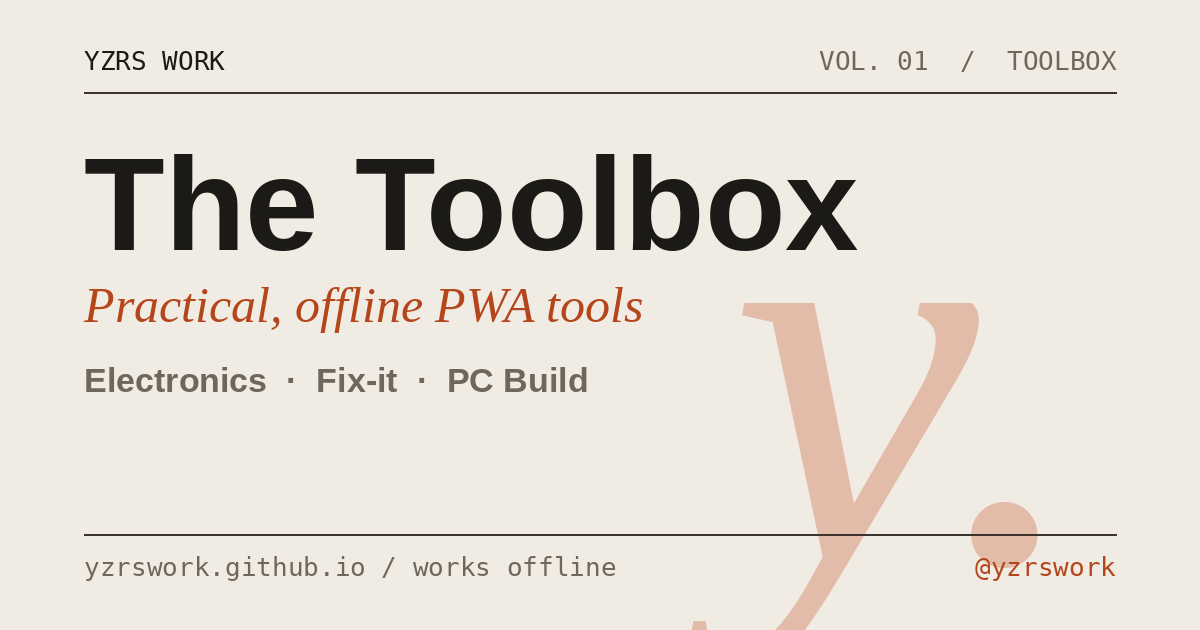
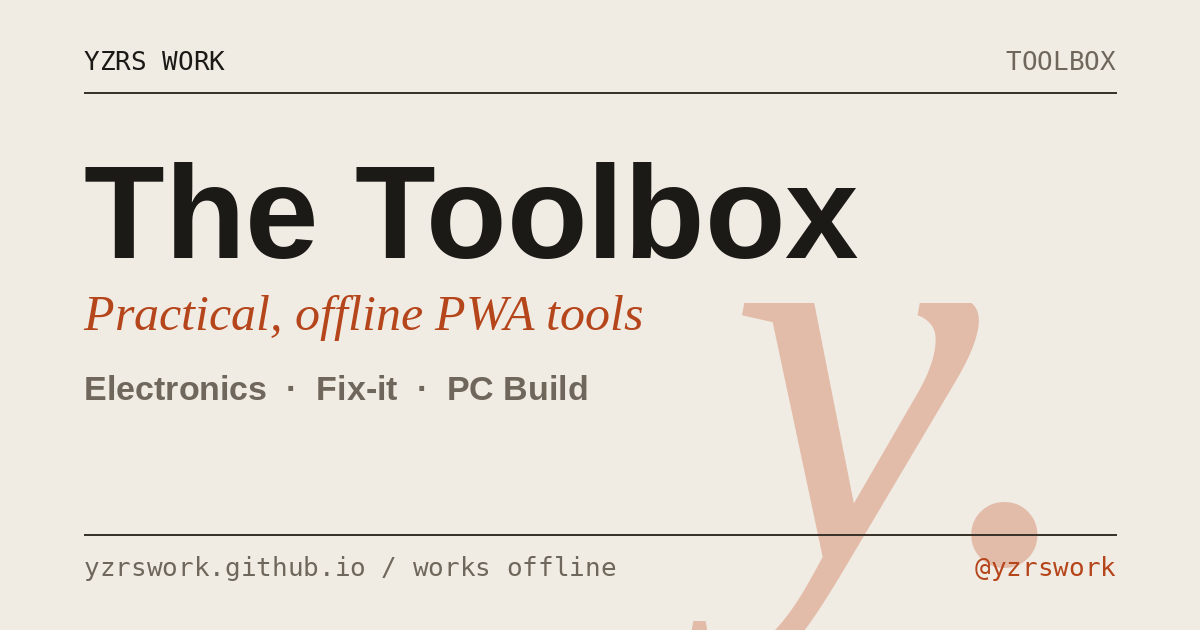
Add per-tool OG share cards and an install button on the Toolbox hub

diff --git a/tools/index.html b/tools/index.html
@@ -89,7 +89,10 @@
   <main class="page">
     <div class="topbar">
       <a class="home" href="../index.html"><span class="dot">●</span> や印工務店</a>
-      <button class="share" id="share">共有</button>
+      <span style="display:flex;gap:8px;">
+        <button class="share" id="install" style="display:none;">インストール</button>
+        <button class="share" id="share">共有</button>
+      </span>
     </div>
 
     <header class="hero">
@@ -162,6 +165,23 @@
       const b = document.getElementById('share'); const t = b.textContent; b.textContent = 'コピー済'; setTimeout(() => b.textContent = t, 1500);
     } catch (e) { /* キャンセル等は無視 */ }
   });
+
+  // インストール（beforeinstallprompt 対応ブラウザでボタンを出す）
+  let deferredPrompt = null;
+  const installBtn = document.getElementById('install');
+  window.addEventListener('beforeinstallprompt', (e) => {
+    e.preventDefault();
+    deferredPrompt = e;
+    installBtn.style.display = '';
+  });
+  installBtn.addEventListener('click', async () => {
+    if (!deferredPrompt) return;
+    deferredPrompt.prompt();
+    try { await deferredPrompt.userChoice; } catch (e) {}
+    deferredPrompt = null;
+    installBtn.style.display = 'none';
+  });
+  window.addEventListener('appinstalled', () => { installBtn.style.display = 'none'; });
 
   if ('serviceWorker' in navigator) {
     window.addEventListener('load', () => {

diff --git a/bench/index.html b/bench/index.html
@@ -16,11 +16,11 @@
 <meta property="og:title" content="工房の電卓 — Maker's Bench" />
 <meta property="og:description" content="電子工作のオフライン計算ツール集。オームの法則・LED抵抗・カラーコード・555・電池駆動時間。" />
 <meta property="og:url" content="https://yzrswork.github.io/yzrswork_ai-skill-recipe/bench/" />
-<meta property="og:image" content="https://yzrswork.github.io/yzrswork_ai-skill-recipe/icons/og-card.png" />
+<meta property="og:image" content="https://yzrswork.github.io/yzrswork_ai-skill-recipe/icons/og-bench.png" />
 <meta name="twitter:card" content="summary_large_image" />
 <meta name="twitter:title" content="工房の電卓 — Maker's Bench" />
 <meta name="twitter:description" content="電子工作のオフライン計算ツール集。オームの法則・LED抵抗・カラーコード・555・電池駆動時間。" />
-<meta name="twitter:image" content="https://yzrswork.github.io/yzrswork_ai-skill-recipe/icons/og-card.png" />
+<meta name="twitter:image" content="https://yzrswork.github.io/yzrswork_ai-skill-recipe/icons/og-bench.png" />
 <link rel="preconnect" href="https://fonts.googleapis.com" />
 <link rel="preconnect" href="https://fonts.gstatic.com" crossorigin />
 <link href="https://fonts.googleapis.com/css2?family=Noto+Sans+JP:wght@400;500;700&family=DM+Mono:wght@400;500&family=EB+Garamond:ital,wght@0,400;0,500;1,400&display=swap" rel="stylesheet" />

diff --git a/fixit/index.html b/fixit/index.html
@@ -16,11 +16,11 @@
 <meta property="og:title" content="直し方ナビ — Fix-it Navigator" />
 <meta property="og:description" content="よくあるトラブルを質問に答えるだけで切り分ける診断ナビ。Yahoo!メール・Windows共有・自作PCビープ・Obsidian同期。" />
 <meta property="og:url" content="https://yzrswork.github.io/yzrswork_ai-skill-recipe/fixit/" />
-<meta property="og:image" content="https://yzrswork.github.io/yzrswork_ai-skill-recipe/icons/og-card.png" />
+<meta property="og:image" content="https://yzrswork.github.io/yzrswork_ai-skill-recipe/icons/og-fixit.png" />
 <meta name="twitter:card" content="summary_large_image" />
 <meta name="twitter:title" content="直し方ナビ — Fix-it Navigator" />
 <meta name="twitter:description" content="質問に答えるだけでトラブルを切り分ける診断ナビ。Yahoo!メール・Windows共有・自作PCビープ・Obsidian同期。" />
-<meta name="twitter:image" content="https://yzrswork.github.io/yzrswork_ai-skill-recipe/icons/og-card.png" />
+<meta name="twitter:image" content="https://yzrswork.github.io/yzrswork_ai-skill-recipe/icons/og-fixit.png" />
 <meta name="description" content="iPhoneのYahoo!メールが繋がらない、Windows11 24H2で共有フォルダが見えない。よくあるトラブルを質問に答えるだけで切り分ける、オフライン対応の診断ナビ。" />
 <link rel="preconnect" href="https://fonts.googleapis.com" />
 <link rel="preconnect" href="https://fonts.gstatic.com" crossorigin />

diff --git a/hdd/index.html b/hdd/index.html
@@ -16,11 +16,11 @@
 <meta property="og:title" content="HDD選びナビ — WD Color & CMR/SMR" />
 <meta property="og:description" content="WDのHDDを用途から色で選び、型番末尾でCMR/SMRを判定。RAID/NASにSMRを避けるための早見。" />
 <meta property="og:url" content="https://yzrswork.github.io/yzrswork_ai-skill-recipe/hdd/" />
-<meta property="og:image" content="https://yzrswork.github.io/yzrswork_ai-skill-recipe/icons/og-card.png" />
+<meta property="og:image" content="https://yzrswork.github.io/yzrswork_ai-skill-recipe/icons/og-hdd.png" />
 <meta name="twitter:card" content="summary_large_image" />
 <meta name="twitter:title" content="HDD選びナビ — WD Color & CMR/SMR" />
 <meta name="twitter:description" content="WDのHDDを用途から色で選び、型番末尾でCMR/SMRを判定。RAID/NASにSMRを避ける早見。" />
-<meta name="twitter:image" content="https://yzrswork.github.io/yzrswork_ai-skill-recipe/icons/og-card.png" />
+<meta name="twitter:image" content="https://yzrswork.github.io/yzrswork_ai-skill-recipe/icons/og-hdd.png" />
 <meta name="description" content="Western DigitalのHDDを用途から色で選び、CMR/SMRを型番末尾で確認する選び方ナビ。RAID/NASにSMRを避けるための早見つき。オフライン対応。" />
 <link rel="preconnect" href="https://fonts.googleapis.com" />
 <link rel="preconnect" href="https://fonts.gstatic.com" crossorigin />

diff --git a/kit/index.html b/kit/index.html
@@ -16,11 +16,11 @@
 <meta property="og:title" content="装備ナビ — Maker's Starter Kit" />
 <meta property="og:description" content="電子工作の工具と部品ストックをステップ別にチェックして、Amazonの買い物リストに集約。調達先ガイドつき。" />
 <meta property="og:url" content="https://yzrswork.github.io/yzrswork_ai-skill-recipe/kit/" />
-<meta property="og:image" content="https://yzrswork.github.io/yzrswork_ai-skill-recipe/icons/og-card.png" />
+<meta property="og:image" content="https://yzrswork.github.io/yzrswork_ai-skill-recipe/icons/og-kit.png" />
 <meta name="twitter:card" content="summary_large_image" />
 <meta name="twitter:title" content="装備ナビ — Maker's Starter Kit" />
 <meta name="twitter:description" content="電子工作の工具・部品をステップ別にチェックして買い物リストに集約。調達先ガイドつき。" />
-<meta name="twitter:image" content="https://yzrswork.github.io/yzrswork_ai-skill-recipe/icons/og-card.png" />
+<meta name="twitter:image" content="https://yzrswork.github.io/yzrswork_ai-skill-recipe/icons/og-kit.png" />
 <meta name="description" content="電子工作、まず何を買えばいい？ 工具と部品ストックをステップ別にチェックして、Amazonの買い物リストに集約。調達先の使い分けガイドつき。オフライン対応。" />
 <link rel="preconnect" href="https://fonts.googleapis.com" />
 <link rel="preconnect" href="https://fonts.gstatic.com" crossorigin />

diff --git a/lab/index.html b/lab/index.html
@@ -16,11 +16,11 @@
 <meta property="og:title" content="e-photoframe ラボ — Modules & Power Planner" />
 <meta property="og:description" content="e-photoframeシリーズのモジュール図鑑と、5V単一電源の配電プランナー。消費電流を積み上げて余裕を確認。" />
 <meta property="og:url" content="https://yzrswork.github.io/yzrswork_ai-skill-recipe/lab/" />
-<meta property="og:image" content="https://yzrswork.github.io/yzrswork_ai-skill-recipe/icons/og-card.png" />
+<meta property="og:image" content="https://yzrswork.github.io/yzrswork_ai-skill-recipe/icons/og-lab.png" />
 <meta name="twitter:card" content="summary_large_image" />
 <meta name="twitter:title" content="e-photoframe ラボ — Modules & Power Planner" />
 <meta name="twitter:description" content="モジュール図鑑と5V配電プランナー。消費電流を積み上げてACアダプタ容量とポート数の余裕を確認。" />
-<meta name="twitter:image" content="https://yzrswork.github.io/yzrswork_ai-skill-recipe/icons/og-card.png" />
+<meta name="twitter:image" content="https://yzrswork.github.io/yzrswork_ai-skill-recipe/icons/og-lab.png" />
 <meta name="description" content="e-photoframeシリーズで使ったモジュールの図鑑と、5V単一電源の配電プランナー。消費電流を積み上げてACアダプタ容量とポート数の余裕を確認。オフライン対応。" />
 <link rel="preconnect" href="https://fonts.googleapis.com" />
 <link rel="preconnect" href="https://fonts.gstatic.com" crossorigin />

diff --git a/mem/index.html b/mem/index.html
@@ -16,11 +16,11 @@
 <meta property="og:title" content="メモリ選びナビ — DDR Spec & Capacity" />
 <meta property="og:description" content="自作PCのメモリを、ソケットからDDR規格を確認し、用途から容量を選び、2枚構成で組むための選び方ナビ。" />
 <meta property="og:url" content="https://yzrswork.github.io/yzrswork_ai-skill-recipe/mem/" />
-<meta property="og:image" content="https://yzrswork.github.io/yzrswork_ai-skill-recipe/icons/og-card.png" />
+<meta property="og:image" content="https://yzrswork.github.io/yzrswork_ai-skill-recipe/icons/og-mem.png" />
 <meta name="twitter:card" content="summary_large_image" />
 <meta name="twitter:title" content="メモリ選びナビ — DDR Spec & Capacity" />
 <meta name="twitter:description" content="ソケットからDDR規格、用途から容量、2枚構成（デュアルチャネル）で。2026年の対応を反映。" />
-<meta name="twitter:image" content="https://yzrswork.github.io/yzrswork_ai-skill-recipe/icons/og-card.png" />
+<meta name="twitter:image" content="https://yzrswork.github.io/yzrswork_ai-skill-recipe/icons/og-mem.png" />
 <meta name="description" content="自作PCのメモリを、ソケットからDDR規格を確認し、用途から容量を選び、2枚構成（デュアルチャネル）で組むための選び方ナビ。オフライン対応。" />
 <link rel="preconnect" href="https://fonts.googleapis.com" />
 <link rel="preconnect" href="https://fonts.gstatic.com" crossorigin />

diff --git a/bench/sw.js b/bench/sw.js
@@ -1,4 +1,4 @@
-const CACHE_NAME = 'bench-v3';
+const CACHE_NAME = 'bench-v4';
 const ASSETS = [
   './',
   './index.html',

diff --git a/fixit/sw.js b/fixit/sw.js
@@ -1,4 +1,4 @@
-const CACHE_NAME = 'fixit-v5';
+const CACHE_NAME = 'fixit-v6';
 const ASSETS = [
   './',
   './index.html',

diff --git a/hdd/sw.js b/hdd/sw.js
@@ -1,4 +1,4 @@
-const CACHE_NAME = 'hdd-v4';
+const CACHE_NAME = 'hdd-v5';
 const ASSETS = [
   './',
   './index.html',

diff --git a/kit/sw.js b/kit/sw.js
@@ -1,4 +1,4 @@
-const CACHE_NAME = 'kit-v3';
+const CACHE_NAME = 'kit-v4';
 const ASSETS = [
   './',
   './index.html',

diff --git a/lab/sw.js b/lab/sw.js
@@ -1,4 +1,4 @@
-const CACHE_NAME = 'lab-v3';
+const CACHE_NAME = 'lab-v4';
 const ASSETS = [
   './',
   './index.html',